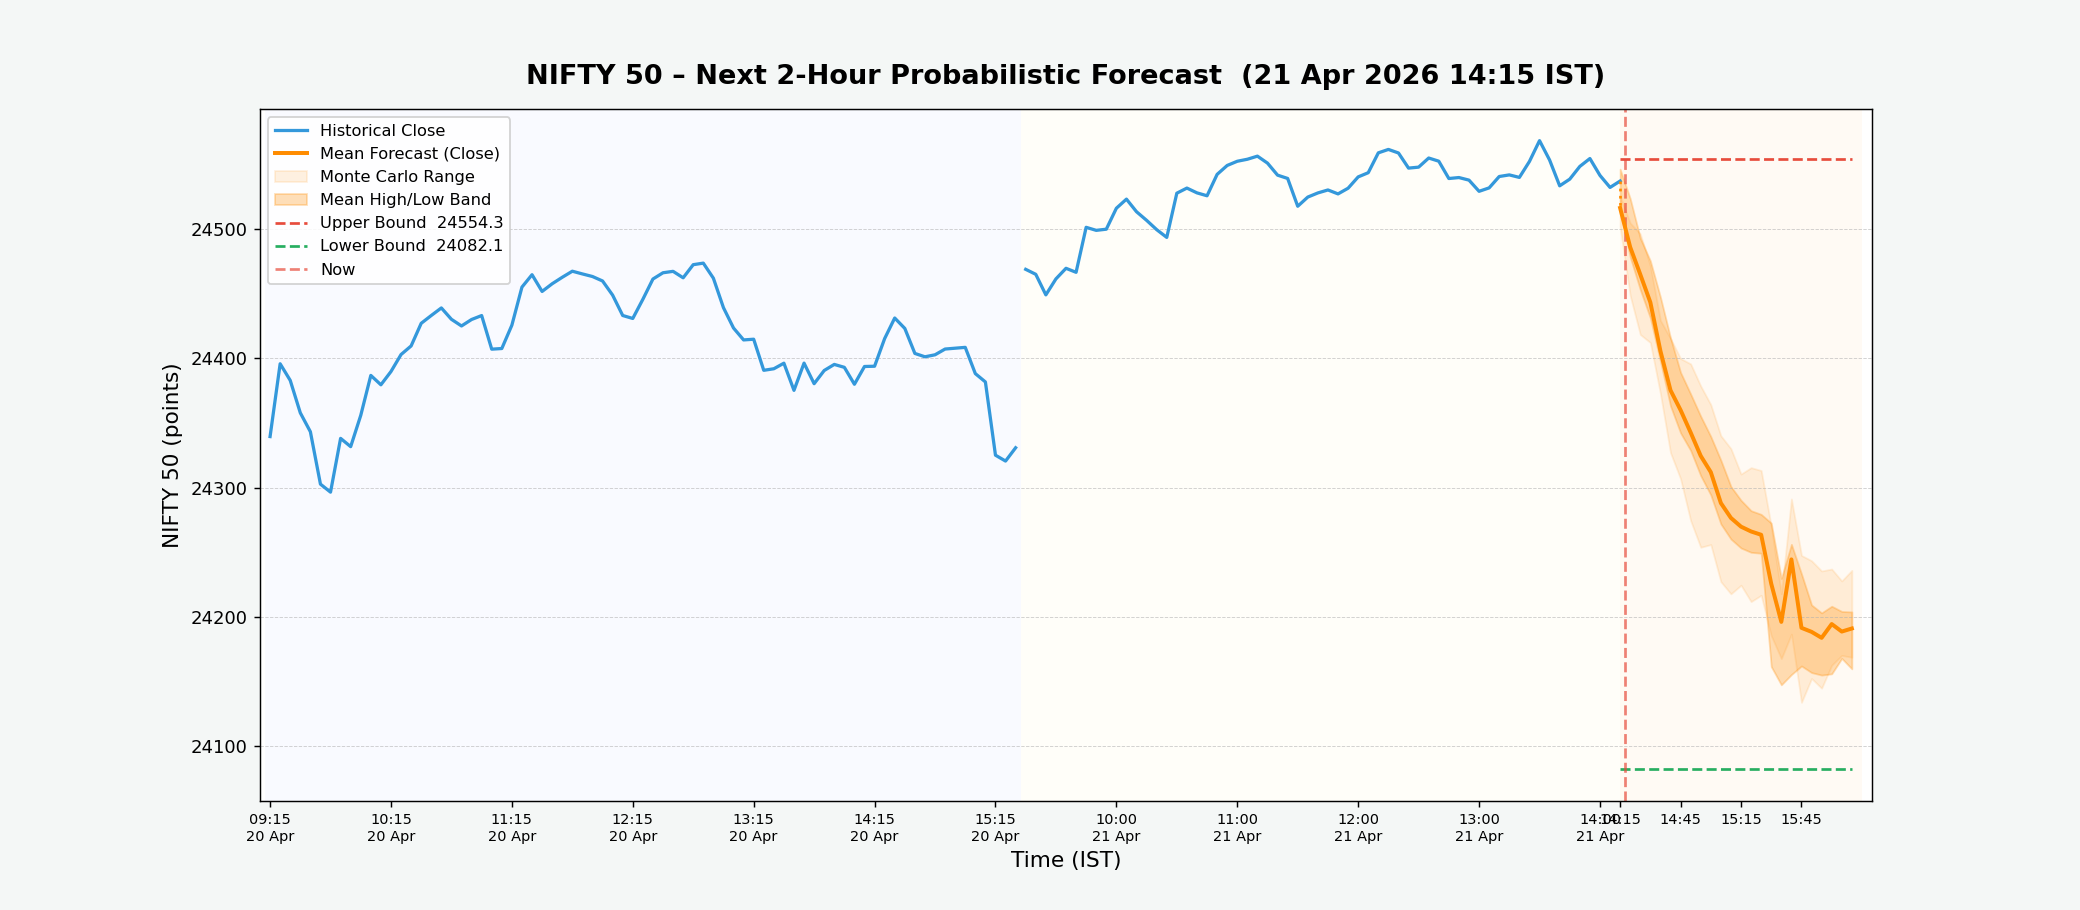
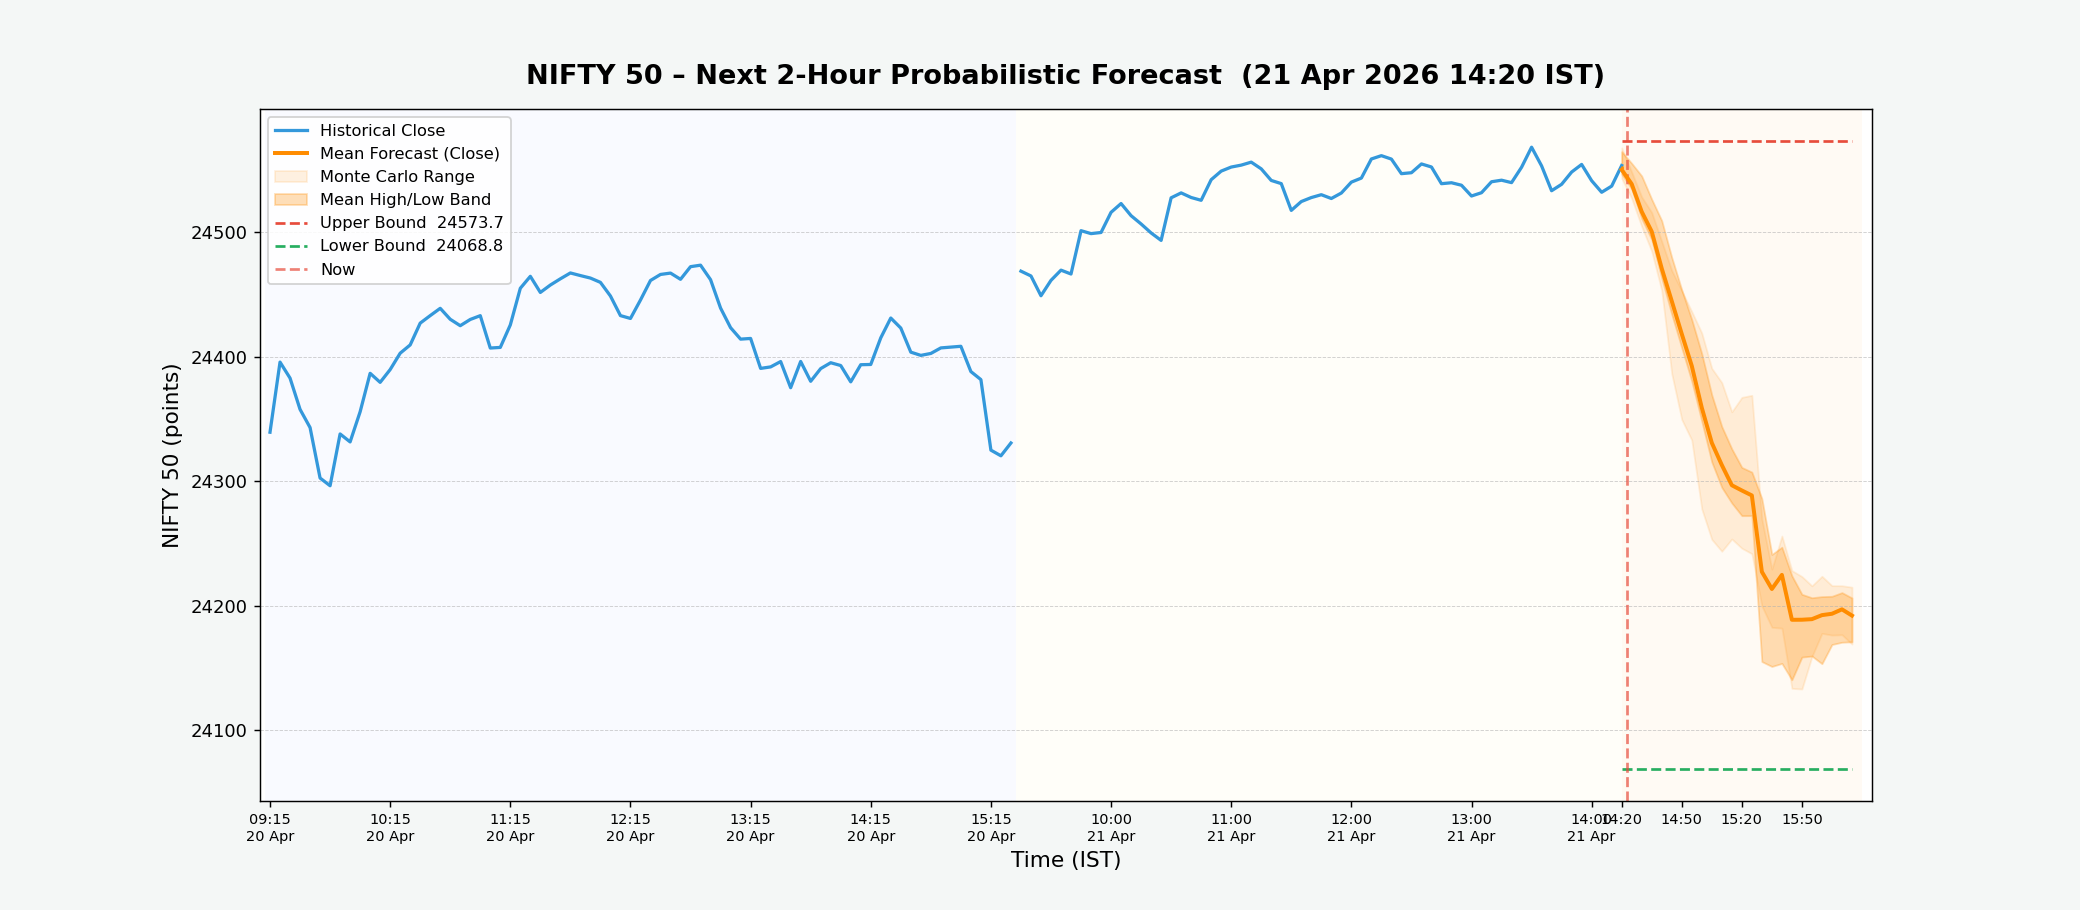
NIFTY forecast update – 2026-04-21 14:20 IST

diff --git a/index.html b/index.html
@@ -24,29 +24,29 @@
 
         <!-- Timestamp bar -->
         <div class="timestamp-bar">
-            <span>Last updated (IST):&nbsp;<strong id="update-time">2026-04-21 14:15:04</strong></span>
+            <span>Last updated (IST):&nbsp;<strong id="update-time">2026-04-21 14:20:04</strong></span>
         </div>
 
         <!-- Metric cards -->
         <div class="metrics-container">
             <div class="metric-card bullish">
                 <div class="metric-label">Bullish Bar Ratio</div>
-                <div class="metric-value" id="upside-prob">24.2%</div>
+                <div class="metric-value" id="upside-prob">28.7%</div>
                 <div class="metric-sub">Next 2h · close &gt; open %</div>
             </div>
             <div class="metric-card upper">
                 <div class="metric-label">Upper Bound</div>
-                <div class="metric-value" id="upper-bound">24554.3</div>
+                <div class="metric-value" id="upper-bound">24573.7</div>
                 <div class="metric-sub">Max predicted high</div>
             </div>
             <div class="metric-card lower">
                 <div class="metric-label">Lower Bound</div>
-                <div class="metric-value" id="lower-bound">24082.1</div>
+                <div class="metric-value" id="lower-bound">24068.8</div>
                 <div class="metric-sub">Min predicted low</div>
             </div>
             <div class="metric-card range">
                 <div class="metric-label">Predicted Range</div>
-                <div class="metric-value" id="pred-range">472.2 pts</div>
+                <div class="metric-value" id="pred-range">504.9 pts</div>
                 <div class="metric-sub">Upper − Lower spread</div>
             </div>
         </div>
